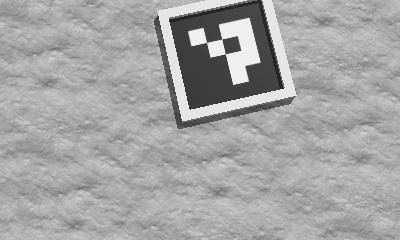
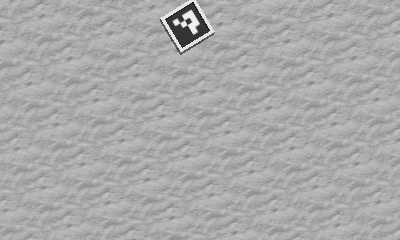
Fixed the FOV to match the simulated camera's

diff --git a/controllers/mavic2pro/mavic2pro.py b/controllers/mavic2pro/mavic2pro.py
@@ -15,7 +15,7 @@ class Mavic(Robot):
     K_PITCH_P = 30.0          # P constant of the pitch PID.
     MAX_YAW_DISTURBANCE = 0.4
     MAX_PITCH_DISTURBANCE = -1
-    target_precision = 0.5    # Precision between the target position and the robot position in meters
+    target_precision = 0.05    # Precision between the target position and the robot position in meters
 
     def __init__(self):
         Robot.__init__(self)
@@ -36,7 +36,7 @@ class Mavic(Robot):
         self.camera = self.getDevice("camera")
         self.camera.enable(self.time_step)
         self.camera_pitch_motor = self.getDevice("camera pitch")
-        self.camera_pitch_motor.setPosition(1.4)  # Orient the camera downwards
+        self.camera_pitch_motor.setPosition(1.7)  # Orient the camera downwards
         self.imu = self.getDevice("inertial unit")
         self.imu.enable(self.time_step)
         self.gps = self.getDevice("gps")
@@ -109,20 +109,21 @@ class Mavic(Robot):
         return False
 
     def pixel_to_world(self, x_pixel, y_pixel):
+        # Assuming camera is pointing downwards and altitude is a good approximation of distance to ground
         altitude = self.gps.getValues()[2]
         image_width, image_height = self.camera.getWidth(), self.camera.getHeight()
 
-        # Base field of view of the camera
-        camera_fov_horizontal = 1.5708  # 90 degrees in radians
-        camera_fov_vertical = 1.5708  # 90 degrees in radians
+        # Approximate field of view of the camera
+        camera_fov_horizontal = 0.785 
+        camera_fov_vertical = 0.785 
 
         # Calculate real world distance per pixel at current altitude
         real_world_per_pixel_x = 2 * altitude * np.tan(camera_fov_horizontal / 2) / image_width
         real_world_per_pixel_y = 2 * altitude * np.tan(camera_fov_vertical / 2) / image_height
 
-        # Dynamic calibration based on altitude
-        calibration_factor_x = self.dynamic_calibration_factor_x(altitude)
-        calibration_factor_y = self.dynamic_calibration_factor_y(altitude)
+        # Adjust based on trial and error calibration
+        calibration_factor_x = 0.4 # Adjust based on your trials
+        calibration_factor_y = 0.25  # Adjust based on your trials
         real_world_per_pixel_x *= calibration_factor_x
         real_world_per_pixel_y *= calibration_factor_y
 
@@ -130,31 +131,44 @@ class Mavic(Robot):
         x_world_relative = (x_pixel - image_width / 2) * real_world_per_pixel_x
         y_world_relative = (y_pixel - image_height / 2) * real_world_per_pixel_y
 
+        # Convert to absolute world coordinates
         drone_x, drone_y, _ = self.gps.getValues()
         x_world = drone_x + x_world_relative
         y_world = drone_y + y_world_relative
 
         return x_world, y_world
 
-    def dynamic_calibration_factor_x(self, altitude):
-        # Define a function that returns a calibration factor based on altitude
-        # This function should be determined through experimentation
-        return -1.2985  # Placeholder, adjust based on experimentation
+    def update_marker_position(self):
+        # During landing, update marker position
+        marker_detected = self.detect_aruco_marker()
+        if marker_detected:
+            print("Marker detected during landing. Updating marker position.")
+            return True
+        else:
+            print("Marker not detected during landing. Using previous marker position.")
+            return False
 
-    def dynamic_calibration_factor_y(self, altitude):
-        # Define a function that returns a calibration factor based on altitude
-        # This function should be determined through experimentation
-        return -0.185  # Placeholder, adjust based on experimentation
-
-
-    
-    def land(self):
+    def land(self,starting_altitude):
         # Gradual descent parameters
         descent_rate = 0.1  # Meters per time step, adjust as needed
         touchdown_altitude = 0.2  # Altitude at which to cut off motors, adjust as needed
 
+        starting_altitude=int(starting_altitude)
         while self.step(self.time_step) != -1:
             _, _, altitude = self.gps.getValues()
+            roll, pitch, yaw = self.imu.getRollPitchYaw()
+            
+            #if (starting_altitude - altitude < 3.1 and starting_altitude - altitude > 2.9) or (starting_altitude - altitude < 6.1 and starting_altitude - altitude > 5.9) or (starting_altitude - altitude < 9.1 and starting_altitude - altitude > 8.9) or (starting_altitude - altitude < 12.1 and starting_altitude - altitude > 11.9):
+             #   self.update_marker_position()
+              #  yaw_disturbance, pitch_disturbance = self.move_to_target([self.marker_position])
+               # print("\n\nMarker position updated during landing at {} from the ground." .format(altitude))
+                #print("Marker position:{}\n" .format(self.marker_position))
+        
+
+
+
+
+
             if altitude <= touchdown_altitude:
                 # If the drone is close enough to the ground, cut off the motors
                 for motor in self.motors:
@@ -249,7 +263,7 @@ class Mavic(Robot):
         waypoints = [[-30, 20], [-60, 20], [-60, 10], [-30, 5]]
         #waypoints = [[-6.36,3.2]]
         # target altitude of the robot in meters
-        self.target_altitude = 5
+        self.target_altitude = 15
 
         detected_marker = False
         while self.step(self.time_step) != -1:
@@ -271,9 +285,9 @@ class Mavic(Robot):
                 # Move towards the marker position and land
                 self.target_position[0:2] = self.marker_position
                 yaw_disturbance, pitch_disturbance = self.move_to_target([self.marker_position])
-                if abs(self.current_pose[0] - self.marker_position[0]) < 0.3 and abs(self.current_pose[1] - self.marker_position[1]) < 0.3:
+                if abs(self.current_pose[0] - self.marker_position[0]) < 0.1 and abs(self.current_pose[1] - self.marker_position[1]) < 0.1:
                     print("Landing on the marker.")
-                    self.land()
+                    self.land(altitude)
                     break
 
             # Detect marker and switch to marker mode if found.
